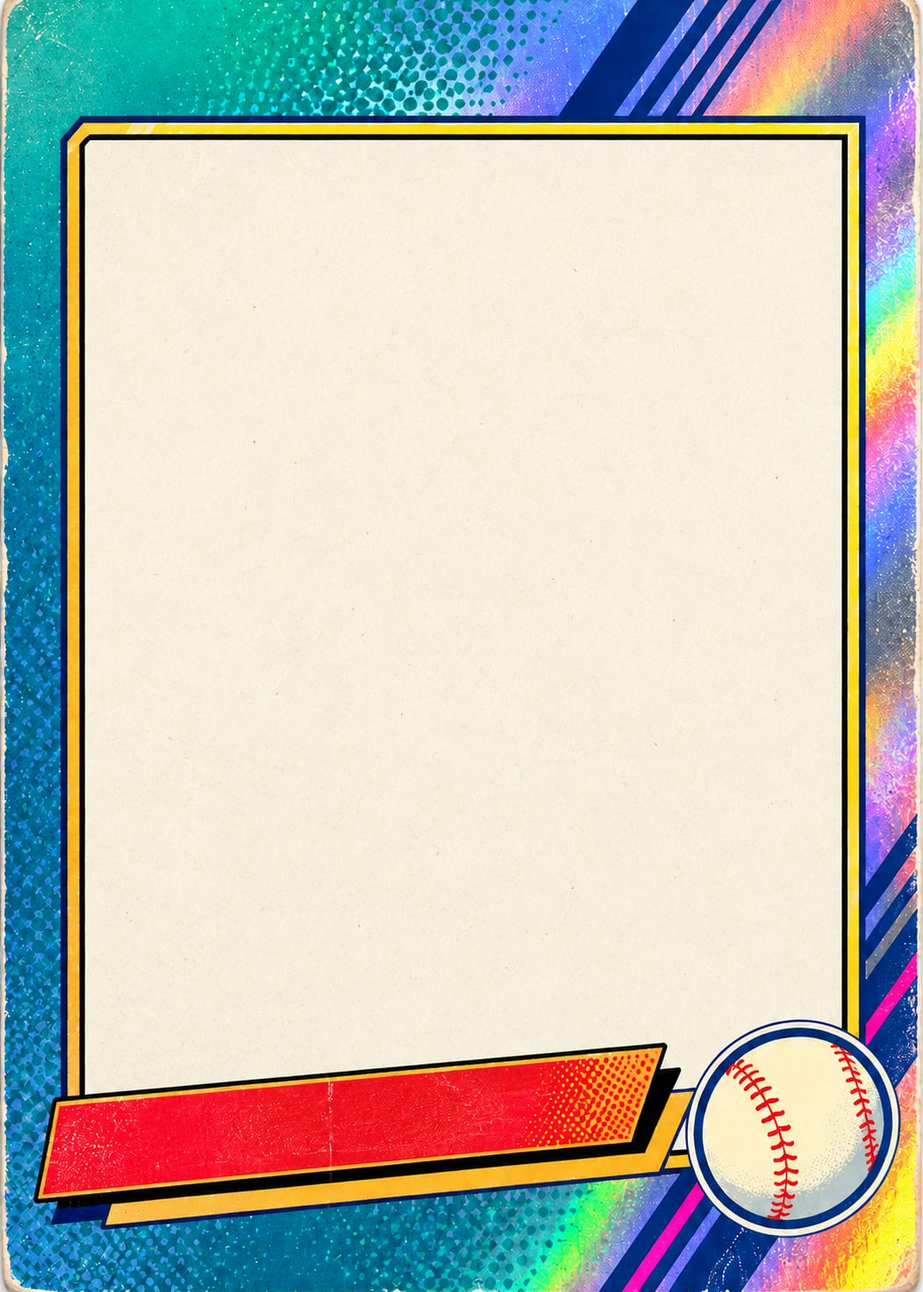
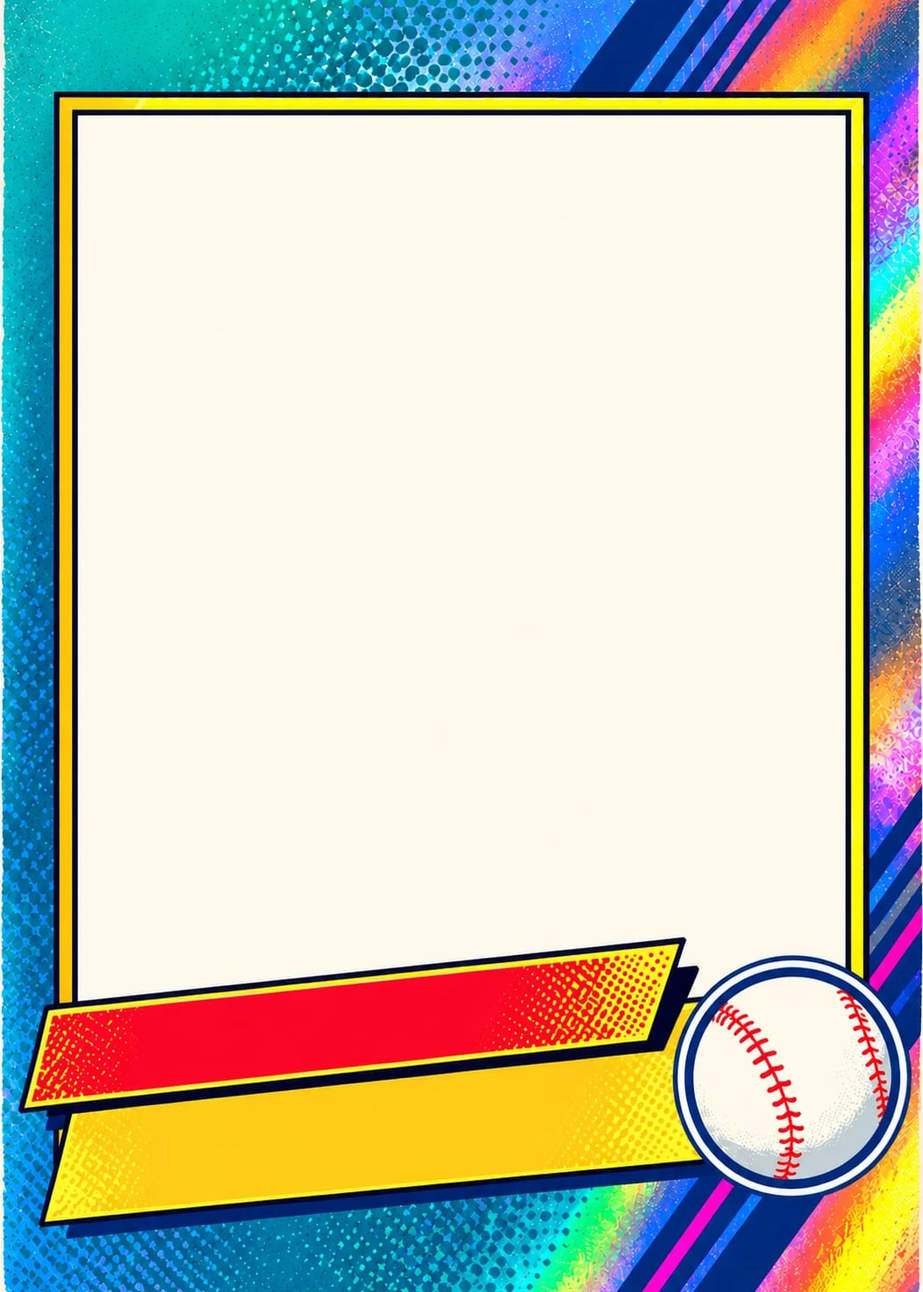
Chrome 90s: the reworked frame, the position on its yellow plate, names and positions fitted
The frame is the square-cornered version with a yellow plate under the red one; the position moves there, leaning with it. A small fitter (src/lib/fit.ts) sizes the name and the position to the plates without a browser to measure: both scale down to a floor, past which a name drops middle names and then initials the first name, and a position loses a parenthetical or trailing clause and is then abbreviated a word at a time (Sr., Mgr., VP, Biz Dev, and so on). The photo is clipped at the plates' top edge, so the frame's plates and ball stay in front; the back's footer rides the red plate. The share image follows the same geometry and fit.

Claude-Session: https://claude.ai/code/session_01Gm8UBWtQbn8uv3sSjieU6q

diff --git a/web/src/styles/card.css b/web/src/styles/card.css
@@ -129,7 +129,7 @@
 /* ===== Chrome 90s: a printed holographic frame (public/frames/chrome.webp: teal halftone, blue stripes in two corners, a rainbow foil edge, a cream photo panel in a gold and navy frame, a red nameplate and a baseball at the bottom right). Everything that changes per card is laid over it: the company as the logo over the top-left corner, the number, the photo in the panel, the position, the name on the plate. A rainbow sheen and a soft band of light follow the pointer across the border, cut out over the panel so the photo stays matte. ===== */
 .card.t-chrome{--foil:linear-gradient(115deg,#ff8a8a 0%,#ffd36b 18%,#8dff9a 36%,#7ad7ff 54%,#c48bff 72%,#ff8ad4 90%,#ff8a8a 100%);--gold:#f2c230;--navy:#173a8a;--red:#e5322d;--frame:url("/frames/chrome.webp");
   /* the panel's place on the frame, as shares of the card: the light is cut out over it */
-  --hole:polygon(evenodd,0 0,100% 0,100% 100%,0 100%,0 0,9.3% 11%,9.3% 84.2%,91% 84.2%,91% 11%,9.3% 11%)}
+  --hole:polygon(evenodd,0 0,100% 0,100% 100%,0 100%,0 0,8.6% 9.1%,8.6% 77%,91.4% 77%,91.4% 9.1%,8.6% 9.1%)}
 .card.t-chrome .face{border-radius:0;border:0;box-shadow:-5px 0 14px rgba(0,0,0,.22),0 10px 26px rgba(0,0,0,.22);background:var(--frame) center/100% 100% no-repeat}
 .card.t-chrome .front{padding:0;isolation:isolate}
 /* the rainbow sheen and a soft band of light, drifting with the pointer */
@@ -137,41 +137,45 @@
 .card.t-chrome .face::after{clip-path:var(--hole);background:linear-gradient(115deg,transparent calc(var(--mx,50%) - 24%),rgba(255,255,255,.28) var(--mx,50%),transparent calc(var(--mx,50%) + 24%))}
 .card.t-chrome .back::after{background:linear-gradient(115deg,transparent calc(76% - var(--mx,50%)),rgba(255,255,255,.22) calc(100% - var(--mx,50%)),transparent calc(124% - var(--mx,50%)))}
 /* the photo panel: the frame's own cream panel; the art box fills it and lets the logo hang outside */
-.card.t-chrome .art{position:absolute;left:9.4%;right:9.1%;top:11.1%;bottom:15.9%;margin:0;flex:none;border-radius:0;border:0;background:#f1ede1;box-shadow:none;overflow:visible}
+.card.t-chrome .art{position:absolute;left:8.6%;right:8.6%;top:9.1%;bottom:23%;margin:0;flex:none;border-radius:0;border:0;background:transparent;box-shadow:none;overflow:visible}
 .card.t-chrome .art::before,.card.t-chrome .art::after{display:none}
-.card.t-chrome .art .pic{border-radius:0;inset:0;overflow:hidden}
+/* the photo stops at the plates' top edge, which crosses the panel's bottom-right corner */
+.card.t-chrome .art .pic{border-radius:0;inset:0;overflow:hidden;clip-path:polygon(0 0,100% 0,100% 92.2%,16.5% 100%,0 100%)}
 .card.t-chrome .mono{color:#2b3e7a}
 /* the company as the logo over the top-left corner, where the maker's mark goes: red bubbly letters with a white keyline */
-.card.t-chrome .team{position:absolute;left:-3.7%;top:-11.4%;bottom:auto;height:auto;line-height:1;max-width:74%;background:transparent;clip-path:none;border-radius:0;z-index:4;
+.card.t-chrome .team{position:absolute;left:-2.8%;top:-9.6%;bottom:auto;height:auto;line-height:1;max-width:74%;background:transparent;clip-path:none;border-radius:0;z-index:4;
   padding:.14em .5em .24em .14em;margin:-.14em -.5em -.24em -.14em; /* room inside the clipping box for the keyline, the italic overhang and the shadow */
   font:400 7.2cqw/1 "Lilita One","Arial Black",Impact,sans-serif;font-style:italic;letter-spacing:.01em;text-transform:none;color:var(--red);
   -webkit-text-stroke:.55cqw #fff;paint-order:stroke fill;text-shadow:.5cqw .6cqw 0 #1c1b18;transform:rotate(-2deg);white-space:nowrap;overflow:hidden;text-overflow:ellipsis}
 /* the number: a navy pill at the top right, over the stripes */
 .card.t-chrome .num{top:3.4%;right:4.5%;width:auto;height:auto;padding:.9cqw 2.6cqw;border:1.5px solid #fff;border-radius:999px;background:var(--navy);color:#fff;font:700 4.2cqw "Barlow Condensed","Arial Narrow",sans-serif;letter-spacing:.06em;z-index:4}
-/* the position: a navy tag on the panel's bottom-left corner. The badge becomes the frame's baseball again, drawn over the photo: a copy of the frame the size of the face, clipped to the ball */
-.card.t-chrome .badge{left:-11.53%;right:-11.17%;top:-15.2%;bottom:-21.78%;width:auto;height:auto;transform:none;border:0;border-radius:0;filter:none;font-size:0;color:transparent;pointer-events:none;z-index:6;
-  background:var(--frame) center/100% 100% no-repeat;clip-path:ellipse(10.9% 7.9% at 85.9% 87.4%)}
-.card.t-chrome .role{position:absolute;left:9.4%;right:auto;top:auto;bottom:15.9%;margin:0;z-index:4;max-width:62%;padding:.9cqw 2.6cqw .7cqw;background:var(--navy);color:#fff;
-  font:700 3.8cqw "Barlow Condensed","Arial Narrow",sans-serif;letter-spacing:.1em;border:1px solid #fff;border-bottom:0;-webkit-text-stroke:0;text-shadow:none;white-space:nowrap;overflow:hidden;text-overflow:ellipsis}
-/* the name on the frame's red plate, which leans up to the right */
-.card.t-chrome .who{position:absolute;left:6%;top:85.6%;right:auto;bottom:auto;width:60%;height:6.4%;margin:0;padding:0 1cqw;z-index:4;max-width:none;background:transparent;border:0;box-shadow:none;color:#fff;line-height:1;
-  transform:rotate(-5.2deg);transform-origin:0 50%;display:flex;flex-direction:row;align-items:center;gap:1.8cqw;white-space:nowrap}
+/* the frame's baseball stands where the badge was */
+.card.t-chrome .badge{display:none}
+/* the name on the frame's red plate and the position on the yellow one below it; both lean up to the right. --ns and --rs come from the fit (src/lib/fit.ts): a scale for the name, a size in cqw for the position */
+.card.t-chrome .who{position:absolute;left:6%;top:78.6%;right:auto;bottom:auto;width:62%;height:6.4%;margin:0;padding:0 1cqw;z-index:4;max-width:none;background:transparent;border:0;box-shadow:none;color:#fff;line-height:1;
+  transform:rotate(-6deg);transform-origin:0 50%;display:flex;flex-direction:row;align-items:center;gap:1.8cqw;white-space:nowrap}
 .card.t-chrome .who > *{transform:none;display:block}
-.card.t-chrome .who .fn{font:400 4.6cqw/1 "Lilita One","Arial Black",Impact,sans-serif;letter-spacing:.02em;color:#ffe2a8;margin:0;text-shadow:.3cqw .3cqw 0 #1c1b18}
-.card.t-chrome .who .ln{flex:1;min-width:0;font:400 6.8cqw/1 "Lilita One","Arial Black",Impact,sans-serif;letter-spacing:.02em;color:#fff;text-shadow:.4cqw .4cqw 0 #1c1b18;-webkit-text-stroke:0;background:none;filter:none;overflow:hidden;text-overflow:ellipsis}
+.card.t-chrome .who .fn{font:400 calc(4.6cqw * var(--ns,1))/1 "Lilita One","Arial Black",Impact,sans-serif;letter-spacing:.02em;color:#ffe2a8;margin:0;text-shadow:.3cqw .3cqw 0 #1c1b18}
+.card.t-chrome .who .ln{flex:1;min-width:0;font:400 calc(6.8cqw * var(--ns,1))/1 "Lilita One","Arial Black",Impact,sans-serif;letter-spacing:.02em;color:#fff;text-shadow:.4cqw .4cqw 0 #1c1b18;-webkit-text-stroke:0;background:none;filter:none;overflow:hidden;text-overflow:ellipsis}
+.card.t-chrome .role{position:absolute;left:5.5%;top:86.3%;right:auto;bottom:auto;width:64%;height:8.1%;margin:0;padding:0 2cqw;z-index:4;max-width:none;background:transparent;border:0;color:var(--navy);
+  font:700 calc(1cqw * var(--rs,5.2))/1 "Barlow Condensed","Arial Narrow",sans-serif;letter-spacing:.1em;text-transform:uppercase;-webkit-text-stroke:0;text-shadow:none;white-space:nowrap;overflow:hidden;text-overflow:ellipsis;
+  transform:rotate(-5.8deg);transform-origin:0 50%;display:flex;align-items:center}
 /* the back: the same frame; the sheet is the panel, the plate stays bare */
-.card.t-chrome .back{border-radius:0;border:0;color:#1c1b18;padding:16.5% 11% 26%;background:var(--frame) center/100% 100% no-repeat}
+.card.t-chrome .back{border-radius:0;border:0;color:#1c1b18;padding:14% 10.5% 33%;background:var(--frame) center/100% 100% no-repeat}
 .card.t-chrome .hdr{background:var(--navy);color:#fff;margin:0 0 3%;border-radius:.8cqw;box-shadow:0 0 0 1.2cqw var(--gold)}
 .card.t-chrome .hdr .t{font-family:"Lilita One","Arial Black",Impact,sans-serif;font-style:italic}
 .card.t-chrome .hdr .s{color:#ffe2a8}
 .card.t-chrome tr.cur td{color:var(--red)}
 .card.t-chrome .skills span{background:var(--navy)}
-.card.t-chrome .foot{border-top-color:#cfc4a9;margin-right:24%}
-/* the free-agent card: the panel goes navy, the logo gold, the tag red */
+/* the back's footer rides the red plate */
+.card.t-chrome .foot{position:absolute;left:6%;top:78.6%;width:62%;height:6.4%;margin:0;padding:0 2cqw;border:0;color:#fff;font:700 4cqw/1 "Barlow Condensed","Arial Narrow",sans-serif;letter-spacing:.08em;text-transform:uppercase;font-style:normal;
+  transform:rotate(-6deg);transform-origin:0 50%;display:flex;align-items:center;justify-content:space-between;white-space:nowrap;overflow:hidden}
+/* the free-agent card: the panel goes navy (painted behind the panel's content, stopping at the plates), the logo gold, the position red */
 .card.t-chrome.free .front{background:var(--frame) center/100% 100% no-repeat;border-color:transparent}
-.card.t-chrome.free .art{background:#1f2a44;border:0;display:flex;padding:6%}
+.card.t-chrome.free .art{background:transparent;border:0;display:flex;padding:6% 6% 14%}
+.card.t-chrome.free .art::before{content:"";display:block;position:absolute;inset:0;z-index:-1;background:#1f2a44;clip-path:polygon(0 0,100% 0,100% 92.2%,16.5% 100%,0 100%)}
 .card.t-chrome.free .team{background:transparent;color:var(--gold);text-shadow:.5cqw .6cqw 0 #1c1b18}
-.card.t-chrome.free .role{background:var(--red);color:#fff}
+.card.t-chrome.free .role{color:var(--red)}
 .card.t-chrome.free .k{color:#c9d7f2}.card.t-chrome.free .open{color:#fff}
 .card.t-chrome.free .who .fn{color:#ffe2a8}
 .card.t-chrome.free .figs div{background:var(--navy);color:#fff}

diff --git a/web/src/lib/og/share.tsx b/web/src/lib/og/share.tsx
@@ -2,6 +2,7 @@ import { ImageResponse } from 'next/og';
 import type { State } from '../types';
 import { careerStats, codeFor, initials, looking, pairFor, pairIndexFor, roles, status, themeOf } from '../derived';
 import { avatarSrc } from '../avatar';
+import { fitName, fitTitle } from '../fit';
 
 /**
  * The share image for a player's page: name, headline and a hand of their three most recent cards,
@@ -128,7 +129,11 @@ function FreeFront({ S, rot }: { S: State; rot: number }) {
 }
 
 /** The Chrome 90s frame: shares of the card where the printed frame's panel and plate sit, in px. */
-const FR = { panelL: Math.round(CW * 0.094), panelT: Math.round(CH * 0.111), panelW: Math.round(CW * 0.815), panelH: Math.round(CH * 0.73), plateL: Math.round(CW * 0.06), plateT: Math.round(CH * 0.856), plateW: Math.round(CW * 0.6), plateH: Math.round(CH * 0.064) };
+const FR = { panelL: Math.round(CW * 0.086), panelT: Math.round(CH * 0.091), panelW: Math.round(CW * 0.828), panelH: Math.round(CH * 0.679),
+  plateL: Math.round(CW * 0.06), plateT: Math.round(CH * 0.786), plateW: Math.round(CW * 0.62), plateH: Math.round(CH * 0.064),
+  roleL: Math.round(CW * 0.055), roleT: Math.round(CH * 0.863), roleW: Math.round(CW * 0.64), roleH: Math.round(CH * 0.081) };
+/** The plates' top edge crosses the panel's bottom-right corner: the panel's content is clipped to it. */
+const PANEL_CLIP = `polygon(0 0, 100% 0, 100% ${Math.round(FR.panelH * 0.922)}px, ${Math.round(FR.panelW * 0.165)}px 100%, 0 100%)`;
 const NAVY = '#173a8a', RED = '#e5322d';
 
 /** The company as the maker's mark over the frame's top-left corner: red letters, a white keyline and a dark offset, built from layered copies. */
@@ -146,22 +151,26 @@ function ChromeMark({ text, color }: { text: string; color: string }) {
 
 /** The name on the frame's red plate, which leans up to the right: first name small in gold, surname large in white. */
 function ChromePlate({ name }: { name: string }) {
-  const w = (name || '').trim().replace(/,.*$/, '').split(/\s+/).filter(Boolean);
-  const fn = w.length > 1 ? w[0] : '', ln = w.length > 1 ? w.slice(1).join(' ') : w[0] || 'Your name';
+  const { fn, ln, scale } = fitName(name.replace(/,.*$/, ''));
   return (
-    <div style={{ position: 'absolute', left: FR.plateL, top: FR.plateT, width: FR.plateW, height: FR.plateH, display: 'flex', alignItems: 'center', paddingLeft: q(1), transform: 'rotate(-5.2deg)', transformOrigin: '0 50%', whiteSpace: 'nowrap', overflow: 'hidden' }}>
-      {fn ? <div style={{ display: 'flex', fontFamily: LILITA, fontSize: q(4.6), letterSpacing: '0.02em', textTransform: 'uppercase', color: '#ffe2a8', textShadow: '1px 1px 0 #1c1b18', marginRight: q(1.8) }}>{fn}</div> : null}
-      <div style={{ display: 'flex', fontFamily: LILITA, fontSize: q(6.8), letterSpacing: '0.02em', textTransform: 'uppercase', color: '#fff', textShadow: '1.5px 1.5px 0 #1c1b18' }}>{ln}</div>
+    <div style={{ position: 'absolute', left: FR.plateL, top: FR.plateT, width: FR.plateW, height: FR.plateH, display: 'flex', alignItems: 'center', paddingLeft: q(1), transform: 'rotate(-6deg)', transformOrigin: '0 50%', whiteSpace: 'nowrap', overflow: 'hidden' }}>
+      {fn ? <div style={{ display: 'flex', fontFamily: LILITA, fontSize: q(4.6 * scale), letterSpacing: '0.02em', textTransform: 'uppercase', color: '#ffe2a8', textShadow: '1px 1px 0 #1c1b18', marginRight: q(1.8) }}>{fn}</div> : null}
+      <div style={{ display: 'flex', fontFamily: LILITA, fontSize: q(6.8 * scale), letterSpacing: '0.02em', textTransform: 'uppercase', color: '#fff', textShadow: '1.5px 1.5px 0 #1c1b18' }}>{ln}</div>
     </div>
   );
 }
 
-/** The Chrome 90s card stock: the printed frame, rotated into the hand like the others; its baseball is drawn again on top so it stands over the photo. */
+/** The position on the yellow plate under the name, abbreviated when it would not fit. */
+function ChromeRole({ title, color }: { title: string; color: string }) {
+  const { text, size } = fitTitle(title);
+  return <div style={{ position: 'absolute', left: FR.roleL, top: FR.roleT, width: FR.roleW, height: FR.roleH, display: 'flex', alignItems: 'center', paddingLeft: q(2), transform: 'rotate(-5.8deg)', transformOrigin: '0 50%', fontFamily: BARLOW, fontSize: q(size), letterSpacing: '0.1em', textTransform: 'uppercase', color, whiteSpace: 'nowrap', overflow: 'hidden' }}>{text}</div>;
+}
+
+/** The Chrome 90s card stock: the printed frame, rotated into the hand like the others; */
 function ChromeStock({ site, rot, children }: { site: string; rot: number; children: React.ReactNode }) {
   return (
     <div style={{ position: 'absolute', bottom: 0, width: CW, height: CH, transformOrigin: `${CW / 2}px ${Math.round(CH * 1.15)}px`, transform: `rotate(${rot}deg)`, display: 'flex', backgroundImage: `url(${site}/frames/chrome.jpg)`, backgroundSize: `${CW}px ${CH}px`, backgroundRepeat: 'no-repeat', boxShadow: '-5px 0 14px rgba(0,0,0,.25), 0 10px 26px rgba(0,0,0,.25)' }}>
       {children}
-      <div style={{ position: 'absolute', left: 0, top: 0, width: CW, height: CH, backgroundImage: `url(${site}/frames/chrome.jpg)`, backgroundSize: `${CW}px ${CH}px`, backgroundRepeat: 'no-repeat', clipPath: `ellipse(${Math.round(CW * 0.109)}px ${Math.round(CH * 0.079)}px at ${Math.round(CW * 0.859)}px ${Math.round(CH * 0.874)}px)` }} />
     </div>
   );
 }
@@ -174,13 +183,13 @@ function ChromeRoleFront({ S, r, site, rot }: { S: State; r: State['roles'][numb
   const ph = FR.panelH;
   return (
     <ChromeStock site={site} rot={rot}>
-      <div style={{ position: 'absolute', left: FR.panelL, top: FR.panelT, width: FR.panelW, height: ph, display: 'flex', alignItems: 'flex-end', justifyContent: 'center', overflow: 'hidden', background: '#f1ede1' }}>
+      <div style={{ position: 'absolute', left: FR.panelL, top: FR.panelT, width: FR.panelW, height: ph, display: 'flex', alignItems: 'flex-end', justifyContent: 'center', overflow: 'hidden', clipPath: PANEL_CLIP }}>
         {src ? <div style={{ width: ph, height: ph, backgroundImage: `url(${src})`, backgroundSize: `${ph}px ${ph}px`, backgroundRepeat: 'no-repeat' }} />
           : <div style={{ display: 'flex', fontFamily: BARLOW, fontSize: q(34), letterSpacing: '-0.02em', color: NAVY, marginBottom: q(30) }}>{initials(p.name) || '?'}</div>}
       </div>
       <ChromeMark text={r.company} color={RED} />
-      <div style={{ position: 'absolute', left: FR.panelL, top: FR.panelT + ph - q(6.4), display: 'flex', padding: `${q(0.9)}px ${q(2.6)}px ${q(0.7)}px`, background: NAVY, color: '#fff', borderTop: '1px solid #fff', borderLeft: '1px solid #fff', borderRight: '1px solid #fff', fontFamily: BARLOW, fontSize: q(3.8), letterSpacing: '0.1em', textTransform: 'uppercase', maxWidth: Math.round(CW * 0.62), whiteSpace: 'nowrap', overflow: 'hidden' }}>{r.title}</div>
       <ChromePlate name={p.name} />
+      <ChromeRole title={r.title} color={NAVY} />
     </ChromeStock>
   );
 }
@@ -190,13 +199,13 @@ function ChromeFreeFront({ S, site, rot }: { S: State; site: string; rot: number
   const p = S.profile, open = (p.targets || []).slice(0, 3).join(' · ');
   return (
     <ChromeStock site={site} rot={rot}>
-      <div style={{ position: 'absolute', left: FR.panelL, top: FR.panelT, width: FR.panelW, height: FR.panelH, display: 'flex', flexDirection: 'column', alignItems: 'center', justifyContent: 'center', padding: '8%', textAlign: 'center', background: '#1f2a44', color: '#fff' }}>
+      <div style={{ position: 'absolute', left: FR.panelL, top: FR.panelT, width: FR.panelW, height: FR.panelH, display: 'flex', flexDirection: 'column', alignItems: 'center', justifyContent: 'center', padding: '8% 8% 16%', textAlign: 'center', background: '#1f2a44', color: '#fff', clipPath: PANEL_CLIP }}>
         <div style={{ display: 'flex', fontFamily: BARLOW, fontSize: q(4.6), letterSpacing: '0.2em', textTransform: 'uppercase', color: '#c9d7f2', marginBottom: q(3) }}>Open to</div>
         <div style={{ display: 'flex', fontFamily: LILITA, fontSize: q(7.5), lineHeight: 1.15, textTransform: 'uppercase', textAlign: 'center' }}>{open || 'Offers'}</div>
       </div>
       <ChromeMark text="Free agent" color="#f2c230" />
-      <div style={{ position: 'absolute', left: FR.panelL, top: FR.panelT + FR.panelH - q(6.4), display: 'flex', padding: `${q(0.9)}px ${q(2.6)}px ${q(0.7)}px`, background: RED, color: '#fff', borderTop: '1px solid #fff', borderLeft: '1px solid #fff', borderRight: '1px solid #fff', fontFamily: BARLOW, fontSize: q(3.8), letterSpacing: '0.1em', textTransform: 'uppercase' }}>Free agent</div>
       <ChromePlate name={p.name} />
+      <ChromeRole title="Free agent" color={RED} />
     </ChromeStock>
   );
 }

diff --git a/web/src/components/Cards.tsx b/web/src/components/Cards.tsx
@@ -2,16 +2,27 @@
 import { useCallback, useEffect, useRef, useState, type CSSProperties } from 'react';
 import type { Profile, Role, State } from '@/lib/types';
 import { dur, fmt, fmtMonth, monthIndex, monthsBetween, nowYM, yearOf, yrs } from '@/lib/dates';
-import { codeFor, huntStats, initials, pairFor, pairIndexFor, runs, status, teamSize, type Run, themeClass } from '@/lib/derived';
+import { codeFor, huntStats, initials, pairFor, pairIndexFor, runs, status, teamSize, type Run, themeClass, themeOf } from '@/lib/derived';
+import { fitName, fitTitle } from '@/lib/fit';
 import { avatarSrc, isPhoto } from '@/lib/avatar';
 
 type Vars = CSSProperties & { '--a'?: string; '--b'?: string };
 const vars = (a: string, b: string): Vars => ({ '--a': a, '--b': b });
 
 /** The player's name, first name(s) and last name in their own spans so a card style can stack or size them. */
-function Who({ name }: { name: string }) {
+function Who({ name, plate }: { name: string; plate?: boolean }) {
+  if (plate) { // the printed plate has a fixed width: the name is scaled and, past a floor, shortened to fit it
+    const f = fitName(name);
+    return <div className="who" style={{ '--ns': f.scale.toFixed(3) } as React.CSSProperties}>{f.fn ? <><span className="fn">{f.fn}</span> <span className="ln">{f.ln}</span></> : <span className="ln">{f.ln}</span>}</div>;
+  }
   const n = (name || 'Your name').trim(), i = n.lastIndexOf(' ');
   return <div className="who">{i > 0 ? <><span className="fn">{n.slice(0, i)}</span> <span className="ln">{n.slice(i + 1)}</span></> : <span className="ln">{n}</span>}</div>;
+}
+
+/** The position line: on the Chrome 90s stock it sits in the frame's box, scaled and abbreviated to fit. */
+function Role({ title, plate, children }: { title: string; plate?: boolean; children?: React.ReactNode }) {
+  if (plate) { const f = fitTitle(title); return <div className="role" style={{ '--rs': f.size.toFixed(2) } as React.CSSProperties}><span className="ttl">{f.text}</span>{children}</div>; }
+  return <div className="role"><span className="ttl">{title}</span>{children}</div>;
 }
 
 /** The highlights list: scrolls inside the card, with a nudge at the bottom while there is more below. */
@@ -29,15 +40,15 @@ export function RoleCard({ S, r, idx, total, on, className, onClick }: { S: Stat
   const p: Profile = S.profile;
   const run = runs(S).find((x) => x.roles.some((z) => z.id === r.id));
   const seasons = run ? run.roles : [r];
-  const bullets = r.bullets || [], skills = (r.skills || []).slice(0, 8);
+  const bullets = r.bullets || [], skills = (r.skills || []).slice(0, 8), plate = themeOf(S) === 'chrome';
   return (
     <div className={'card' + themeClass(S) + (on ? ' on' : '') + (className ? ' ' + className : '')} style={vars(a, b)} data-id={r.id} tabIndex={0} role="button" aria-label={r.company + ', ' + r.title} onClick={onClick}>
       <div className="inner">
         <div className="face front">
           <span className={"num" + (idx + 1 >= 10 ? " wide" : "")}>#{idx + 1}</span>
           <div className="art"><div className="team" style={{ fontSize: Math.min(7.8, teamSize(r.company)) + 'cqw' }}>{r.company}</div>{p.avatar ? <span className="pic"><img className={isPhoto(p.avatar) ? 'photo' : undefined} src={avatarSrc(p.avatar, pairIndexFor(S, r.company))} alt="" /></span> : <span className="mono">{initials(p.name) || '?'}</span>}<span className="badge">{r.code || codeFor(r.title)}</span></div>
-          <Who name={p.name} />
-          <div className="role"><span className="ttl">{r.title}</span><span className="yrs"> · {yearOf(r.start)} – {yearOf(r.end)}</span></div>
+          <Who name={p.name} plate={plate} />
+          <Role title={r.title} plate={plate}><span className="yrs"> · {yearOf(r.start)} – {yearOf(r.end)}</span></Role>
         </div>
         <div className="face back">
           <div className="hdr"><div className="t">{r.company}</div><div className="s">{r.title}{r.location ? ' · ' + r.location : ''}</div></div>
@@ -71,7 +82,7 @@ export function FreeCard({ S, on, share, className, onClick, onTimeline }: { S: 
       <div className="inner">
         <div className="face front">
           <div className="art"><div className="team" style={{ fontSize: Math.min(7.8, teamSize('Free agent')) + 'cqw' }}>Free agent</div><div className="k">Open to</div><div className="open">{open}</div><span className="badge" title="Free agent">FA</span></div>
-          <Who name={p.name} />
+          <Who name={p.name} plate={themeOf(S) === 'chrome'} />
           <div className="role">Free agent</div>
         </div>
         <div className="face back">
@@ -102,7 +113,7 @@ export function SummaryCard({ S, run, from, to }: { S: State; run: Run; from: nu
         <div className="face front">
           <span className="num">#{from}–{to}</span>
           <div className="art"><div className="team" style={{ fontSize: Math.min(7.8, teamSize(run.company)) + 'cqw' }}>{run.company}</div><span className="mono">{run.roles.length}<small>{run.roles.length === 1 ? 'role' : 'roles'}</small></span><span className="badge">{last.code || codeFor(last.title)}</span></div>
-          <Who name={S.profile.name} />
+          <Who name={S.profile.name} plate={themeOf(S) === 'chrome'} />
           <div className="role">{yearOf(first.start)} – {yearOf(last.end)} · {dur(monthIndex(last.end || nowYM()) - monthIndex(first.start) + 1)}</div>
         </div>
         <div className="face back" />

diff --git a/web/src/lib/fit.ts b/web/src/lib/fit.ts
@@ -1,0 +1,64 @@
+/**
+ * Fitting a line of text into a fixed box on a card without a browser to measure it: the width is estimated
+ * from the character count and the face's average advance, the size scales down to a floor, and past the floor
+ * the words themselves give way, the way a printed card would abbreviate a long position. Sizes are in cqw
+ * (shares of the card's width), which the stylesheet turns into CSS variables.
+ */
+
+/** The abbreviations a card would use for a long position, tried in order until the line fits. */
+const TITLE_ABBR: [RegExp, string][] = [
+  [/\bExecutive Vice President\b/gi, 'EVP'], [/\bSenior Vice President\b/gi, 'SVP'], [/\bVice President\b/gi, 'VP'],
+  [/\bChief Executive Officer\b/gi, 'CEO'], [/\bChief Operating Officer\b/gi, 'COO'], [/\bChief Financial Officer\b/gi, 'CFO'], [/\bChief Technology Officer\b/gi, 'CTO'], [/\bChief Marketing Officer\b/gi, 'CMO'], [/\bChief People Officer\b/gi, 'CPO'],
+  [/\bInformation Technology\b/gi, 'IT'], [/\bHuman Resources\b/gi, 'HR'], [/\bQuality Assurance\b/gi, 'QA'], [/\bResearch and Development\b/gi, 'R&D'], [/\bBusiness Development\b/gi, 'Biz Dev'], [/\bUser Experience\b/gi, 'UX'], [/\bPublic Relations\b/gi, 'PR'],
+  [/\s+and\s+/gi, ' & '], [/\bof the\b/gi, 'of'],
+  [/\bSenior\b/gi, 'Sr.'], [/\bJunior\b/gi, 'Jr.'], [/\bManager\b/gi, 'Mgr.'], [/\bManagement\b/gi, 'Mgmt.'], [/\bDirector\b/gi, 'Dir.'], [/\bAssociate\b/gi, 'Assoc.'], [/\bAssistant\b/gi, 'Asst.'],
+  [/\bEngineering\b/gi, 'Eng.'], [/\bEngineer\b/gi, 'Eng.'], [/\bDevelopment\b/gi, 'Dev.'], [/\bDeveloper\b/gi, 'Dev.'], [/\bOperations\b/gi, 'Ops'], [/\bAccount\b/gi, 'Acct.'], [/\bExecutive\b/gi, 'Exec.'],
+  [/\bRepresentative\b/gi, 'Rep.'], [/\bSpecialist\b/gi, 'Spec.'], [/\bCoordinator\b/gi, 'Coord.'], [/\bAdministrator\b/gi, 'Admin.'], [/\bAdministration\b/gi, 'Admin.'], [/\bConsultant\b/gi, 'Consult.'], [/\bConsulting\b/gi, 'Consult.'],
+  [/\bTechnician\b/gi, 'Tech.'], [/\bTechnical\b/gi, 'Tech.'], [/\bTechnology\b/gi, 'Tech.'], [/\bMarketing\b/gi, 'Mktg.'], [/\bCommunications\b/gi, 'Comms'], [/\bProduct\b/gi, 'Prod.'], [/\bProgramme\b/gi, 'Prog.'], [/\bProgram\b/gi, 'Prog.'], [/\bProject\b/gi, 'Proj.'],
+  [/\bInternational\b/gi, 'Intl.'], [/\bNational\b/gi, 'Natl.'], [/\bRegional\b/gi, 'Reg.'], [/\bRelationship\b/gi, 'Rel.'], [/\bCustomer\b/gi, 'Cust.'], [/\bPerformance\b/gi, 'Perf.'], [/\bExcellence\b/gi, 'Excel.'],
+  [/\bStrategy\b/gi, 'Strat.'], [/\bStrategic\b/gi, 'Strat.'], [/\bPrincipal\b/gi, 'Princ.'], [/\bProfessional\b/gi, 'Prof.'], [/\bDepartment\b/gi, 'Dept.'], [/\bGeneral\b/gi, 'Gen.'], [/\bFinancial\b/gi, 'Fin.'], [/\bFinance\b/gi, 'Fin.'],
+  [/\bSolutions\b/gi, 'Sol.'], [/\bImplementation\b/gi, 'Impl.'], [/\bEnvironmental\b/gi, 'Env.'], [/\bCertified\b/gi, 'Cert.'], [/\bSupervisor\b/gi, 'Supv.'], [/\bApplication\b/gi, 'App.'], [/\bInfrastructure\b/gi, 'Infra.'], [/\bArchitecture\b/gi, 'Arch.'], [/\bArchitect\b/gi, 'Arch.'],
+];
+
+/** An estimate of a line's width in em for a face: characters times the face's average advance (uppercase, letter-spacing included). */
+const em = (text: string, adv: number) => text.length * adv;
+
+/**
+ * A position for the role box: base size, scaled down to the floor; past the floor, trimmed of a parenthetical or a
+ * trailing clause, then abbreviated a word at a time (the longest-established abbreviations first).
+ */
+export function fitTitle(title: string, width = 60, base = 5.2, min = 3.7, adv = 0.58): { text: string; size: number } {
+  let text = (title || '').trim();
+  const size = (t: string) => Math.min(base, width / Math.max(1, em(t, adv)));
+  if (size(text) >= min) return { text, size: size(text) };
+  // a parenthetical or a trailing clause goes first: "(North America)", "- Contract"
+  const trimmed = text.replace(/\s*\(.*?\)\s*/g, ' ').replace(/\s+[-–—/,|].*$/, '').trim();
+  if (trimmed && trimmed !== text) { text = trimmed; if (size(text) >= min) return { text, size: size(text) }; }
+  for (const [re, to] of TITLE_ABBR) {
+    const next = text.replace(re, to);
+    if (next === text) continue;
+    text = next;
+    if (size(text) >= min) return { text, size: size(text) };
+  }
+  return { text, size: min };
+}
+
+/**
+ * A name for the plate: first name small, surname large, both scaled together down to the floor; past the floor,
+ * middle names go, then the first name becomes an initial.
+ */
+export function fitName(name: string, width = 60, minScale = 0.68, advFn = 0.6, advLn = 0.62, fnSize = 4.6, lnSize = 6.8, gap = 1.8): { fn: string; ln: string; scale: number } {
+  const words = (name || 'Your name').trim().split(/\s+/).filter(Boolean);
+  const scale = (fn: string, ln: string) => Math.min(1, (width - (fn ? gap : 0)) / Math.max(1, em(fn, advFn) * fnSize + em(ln, advLn) * lnSize));
+  const tries: [string, string][] = [];
+  if (words.length === 1) tries.push(['', words[0]]);
+  else {
+    const first = words[0], last = words[words.length - 1];
+    tries.push([words.slice(0, -1).join(' '), last]); // all given names
+    if (words.length > 2) tries.push([first, last]); // first and last only
+    tries.push([first[0] + '.', last]); // an initial
+  }
+  for (const [fn, ln] of tries) { const s = scale(fn, ln); if (s >= minScale) return { fn, ln, scale: s }; }
+  const [fn, ln] = tries[tries.length - 1];
+  return { fn, ln, scale: minScale };
+}
